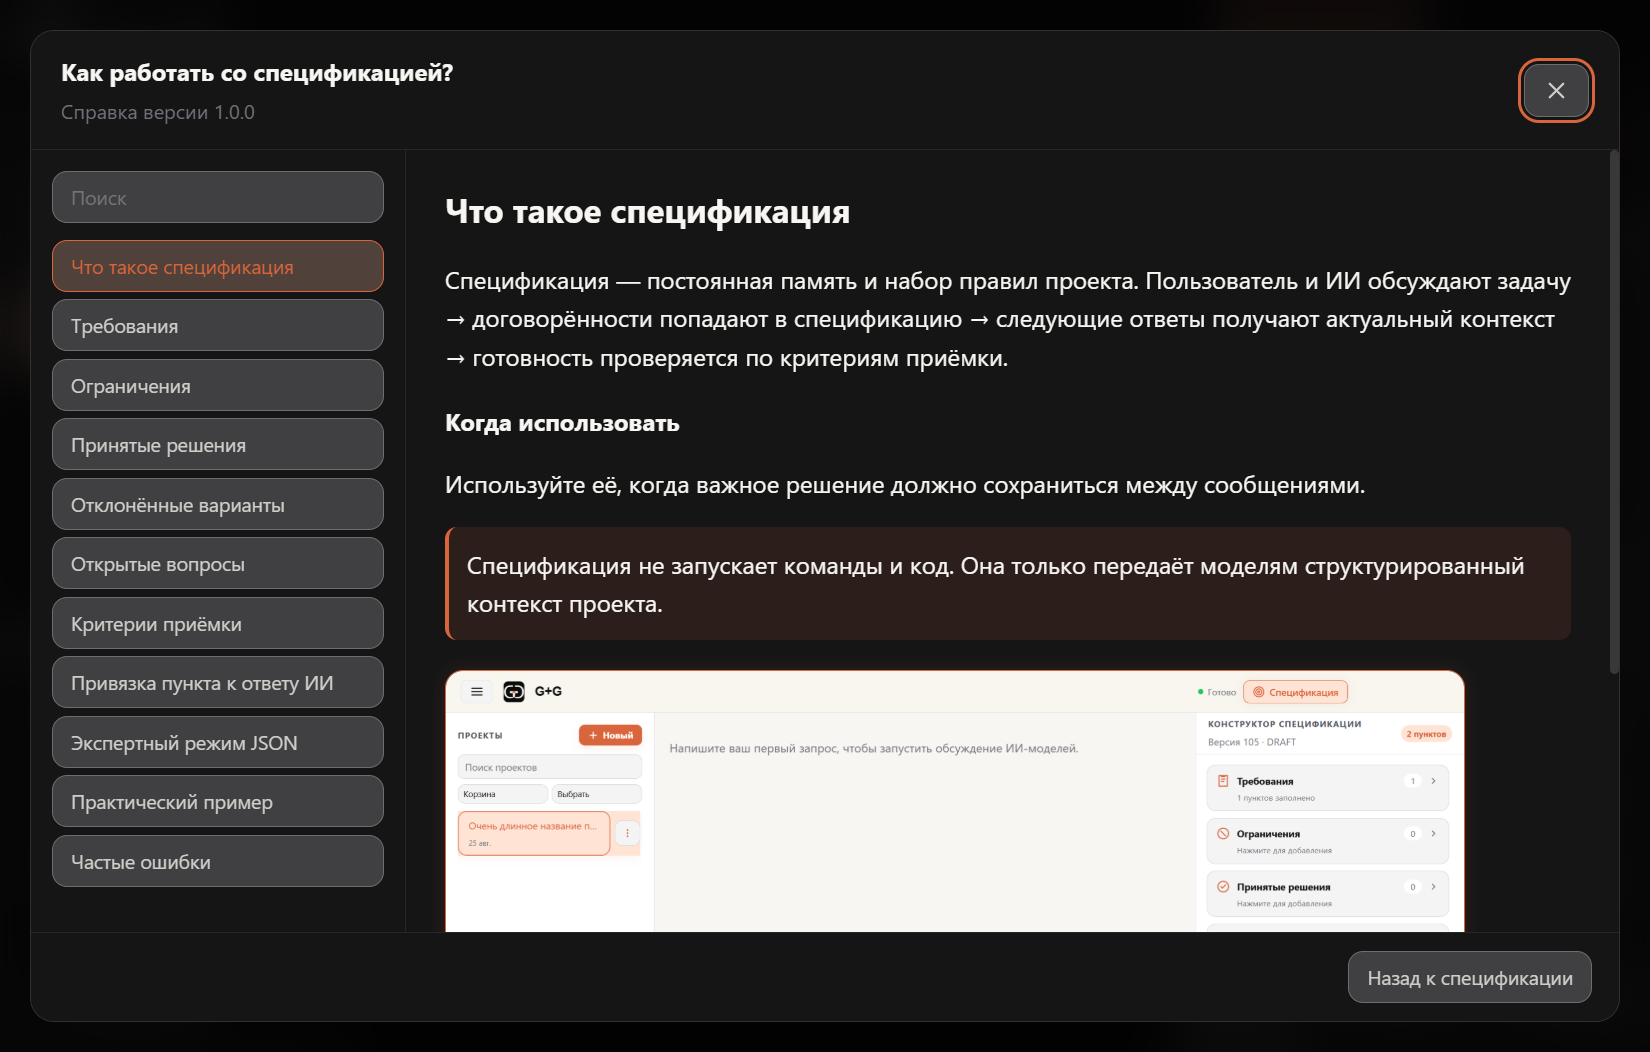
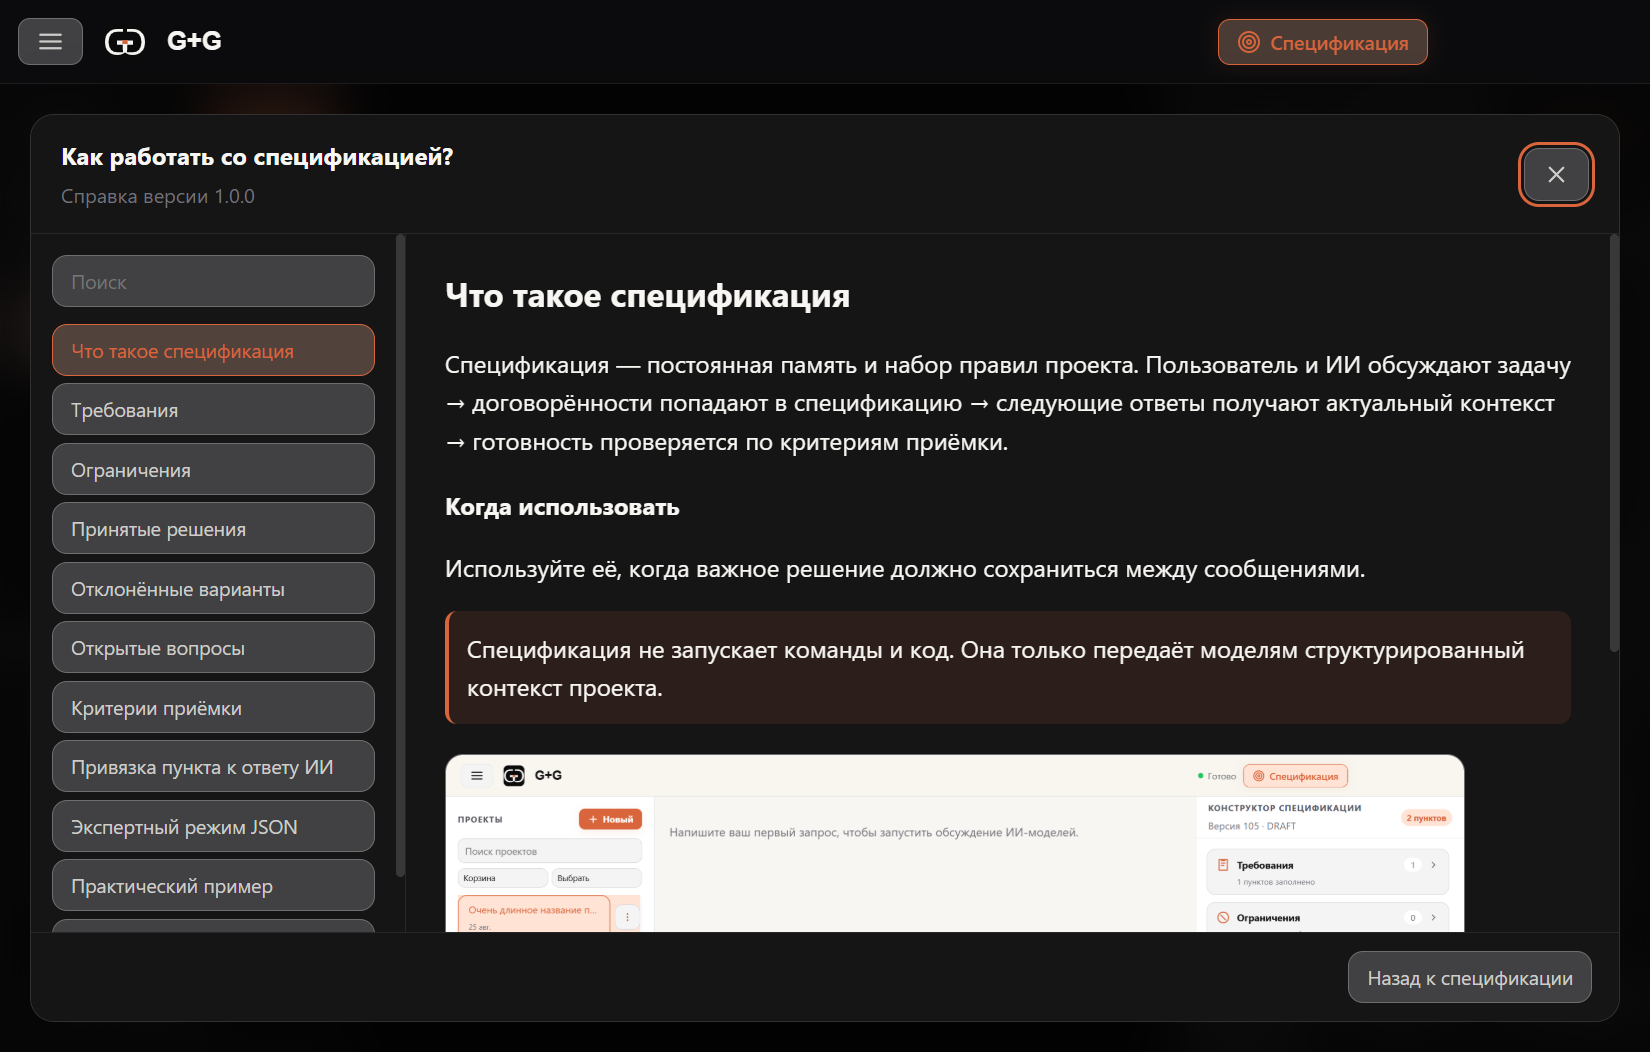
fix(ui): keep modal controls below window caption area

diff --git a/apps/desktop/renderer/styles.css b/apps/desktop/renderer/styles.css
@@ -1,6 +1,7 @@
 @import url('https://fonts.googleapis.com/css2?family=Inter:wght@300;400;500;600;700;800&family=Outfit:wght@400;500;600;700;800&display=swap');
 
 :root {
+  --titlebar-height: env(titlebar-area-height, 56px);
   color-scheme: dark;
   font-family: 'Inter', -apple-system, BlinkMacSystemFont, "Segoe UI", Roboto, sans-serif;
 
@@ -250,7 +251,7 @@ button:disabled {
 
 /* Big Tech Header Bar */
 main > header {
-  height: 56px;
+  height: var(--titlebar-height);
   min-width: 0;
   display: flex;
   align-items: center;
@@ -431,7 +432,7 @@ h2 {
   grid-template-columns: 280px minmax(0, 1fr);
   min-width: 0;
   max-width: 100%;
-  height: calc(100vh - 56px);
+  height: calc(100vh - var(--titlebar-height));
   overflow: hidden;
 }
 
@@ -1733,7 +1734,8 @@ fieldset label textarea {
 .spec-onboarding div { display: flex; flex-wrap: wrap; gap: 6px; margin-top: 9px; }
 .spec-onboarding button { padding: 5px 7px; font-size: 11px; }
 
-.spec-help-modal { width: min(1080px, calc(100vw - 40px)); height: min(800px, calc(100vh - 40px)); min-height: 0; display: grid; grid-template-rows: auto minmax(0, 1fr) auto; overflow: hidden; border: 1px solid var(--border-modal); border-radius: 16px; background: var(--bg-modal); box-shadow: var(--shadow-modal); }
+.spec-help-backdrop { inset: var(--titlebar-height) 0 0; }
+.spec-help-modal { width: min(1080px, calc(100vw - 40px)); height: min(800px, calc(100% - 40px)); min-height: 0; display: grid; grid-template-rows: auto minmax(0, 1fr) auto; overflow: hidden; border: 1px solid var(--border-modal); border-radius: 16px; background: var(--bg-modal); box-shadow: var(--shadow-modal); }
 .spec-help-header { display: flex; align-items: center; justify-content: space-between; gap: 16px; padding: 16px 20px; border-bottom: 1px solid var(--border-color); background: var(--bg-modal); }
 .spec-help-header h2 { margin: 0 0 4px; font-size: 16px; color: var(--text-primary); letter-spacing: 0; text-transform: none; }
 .spec-help-header small { color: var(--text-muted); }
@@ -1754,12 +1756,13 @@ fieldset label textarea {
 .spec-help-content figcaption { margin-top: 7px; color: var(--text-muted); font-size: 12px; }
 .spec-help-modal > footer { display: flex; justify-content: flex-end; padding: 12px 18px; border-top: 1px solid var(--border-color); background: var(--bg-panel); }
 .spec-help-modal > footer button, .spec-help-header button { color: var(--text-primary); background: var(--bg-input); opacity: 1; }
-.spec-help-preview { position: fixed; inset: 0; z-index: 130; display: grid; place-items: center; padding: 20px; background: rgba(0,0,0,.78); }
+.spec-help-header button { flex: 0 0 auto; -webkit-app-region: no-drag; }
+.spec-help-preview { position: fixed; inset: var(--titlebar-height) 0 0; z-index: 130; display: grid; place-items: center; padding: 20px; background: rgba(0,0,0,.78); }
 .spec-help-preview > div { position: relative; max-width: 92vw; max-height: 92vh; overflow: auto; border-radius: 12px; background: var(--bg-modal); }
 .spec-help-preview button { position: absolute; top: 8px; right: 8px; z-index: 2; }
 .spec-help-preview img { display: block; max-width: 88vw; max-height: 82vh; object-fit: contain; }
 .spec-help-preview p { margin: 0; padding: 10px 14px; }
-@media (max-width: 760px) { .spec-help-modal { width: calc(100vw - 16px); height: calc(100vh - 16px); } .spec-help-layout { grid-template-columns: 1fr; grid-template-rows: auto minmax(0, 1fr); } .spec-help-layout nav { max-height: 150px; border-right: 0; border-bottom: 1px solid var(--border-color); } }
+@media (max-width: 760px) { .spec-help-modal { width: calc(100vw - 16px); height: calc(100% - 16px); } .spec-help-layout { grid-template-columns: 1fr; grid-template-rows: auto minmax(0, 1fr); } .spec-help-layout nav { max-height: 150px; border-right: 0; border-bottom: 1px solid var(--border-color); } }
 .spec-modal-body { flex: 1 1 auto; min-height: 0; overflow-y: auto; overflow-x: hidden; }
 .spec-modal > footer { flex: 0 0 auto; display: flex; justify-content: flex-end; padding: 12px 20px; border-top: 1px solid var(--border-color); background: var(--bg-panel); }
 

diff --git a/tests/specification-caption-geometry.test.ts b/tests/specification-caption-geometry.test.ts
@@ -1,0 +1,16 @@
+import { describe, expect, it } from "vitest";
+import { readFileSync } from "node:fs";
+
+describe("specification help caption geometry", () => {
+  const css = readFileSync("apps/desktop/renderer/styles.css", "utf8");
+
+  it("uses the Windows title-bar overlay metric for the application viewport", () => {
+    expect(css).toMatch(/--titlebar-height:\s*env\(titlebar-area-height,\s*56px\)/);
+    expect(css).toMatch(/\.spec-help-backdrop\s*\{[^}]*inset:\s*var\(--titlebar-height\)\s+0\s+0/s);
+    expect(css).toMatch(/\.layout\s*\{[^}]*height:\s*calc\(100vh\s*-\s*var\(--titlebar-height\)\)/s);
+  });
+
+  it("keeps the modal close control outside the drag region", () => {
+    expect(css).toMatch(/\.spec-help-header button\s*\{[^}]*-webkit-app-region:\s*no-drag/s);
+  });
+});
